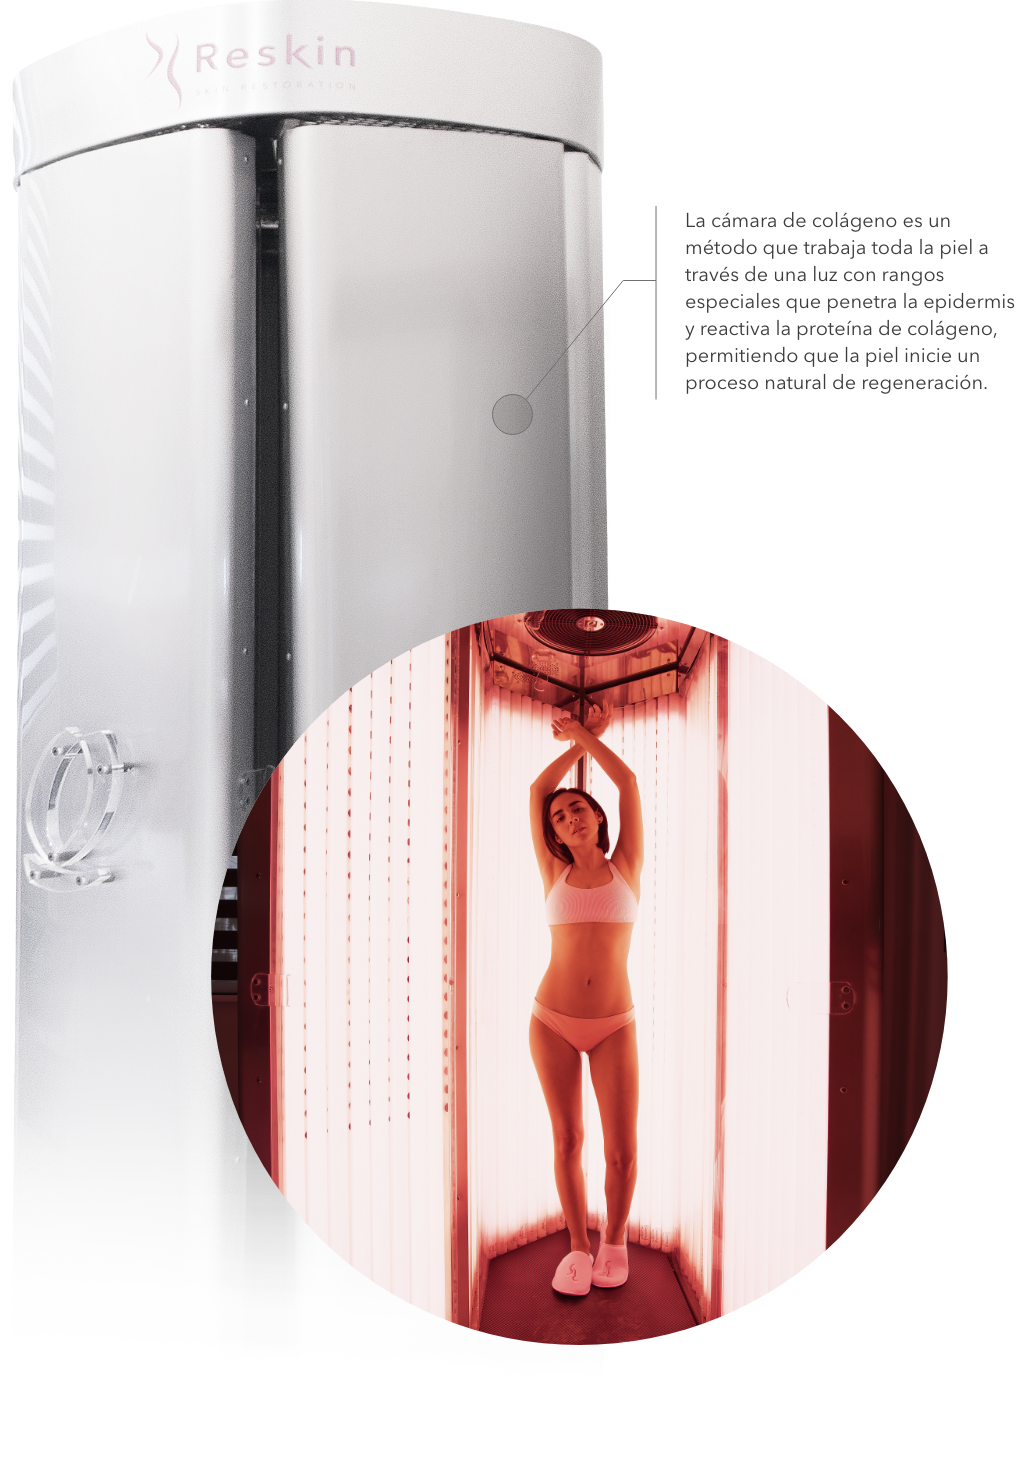
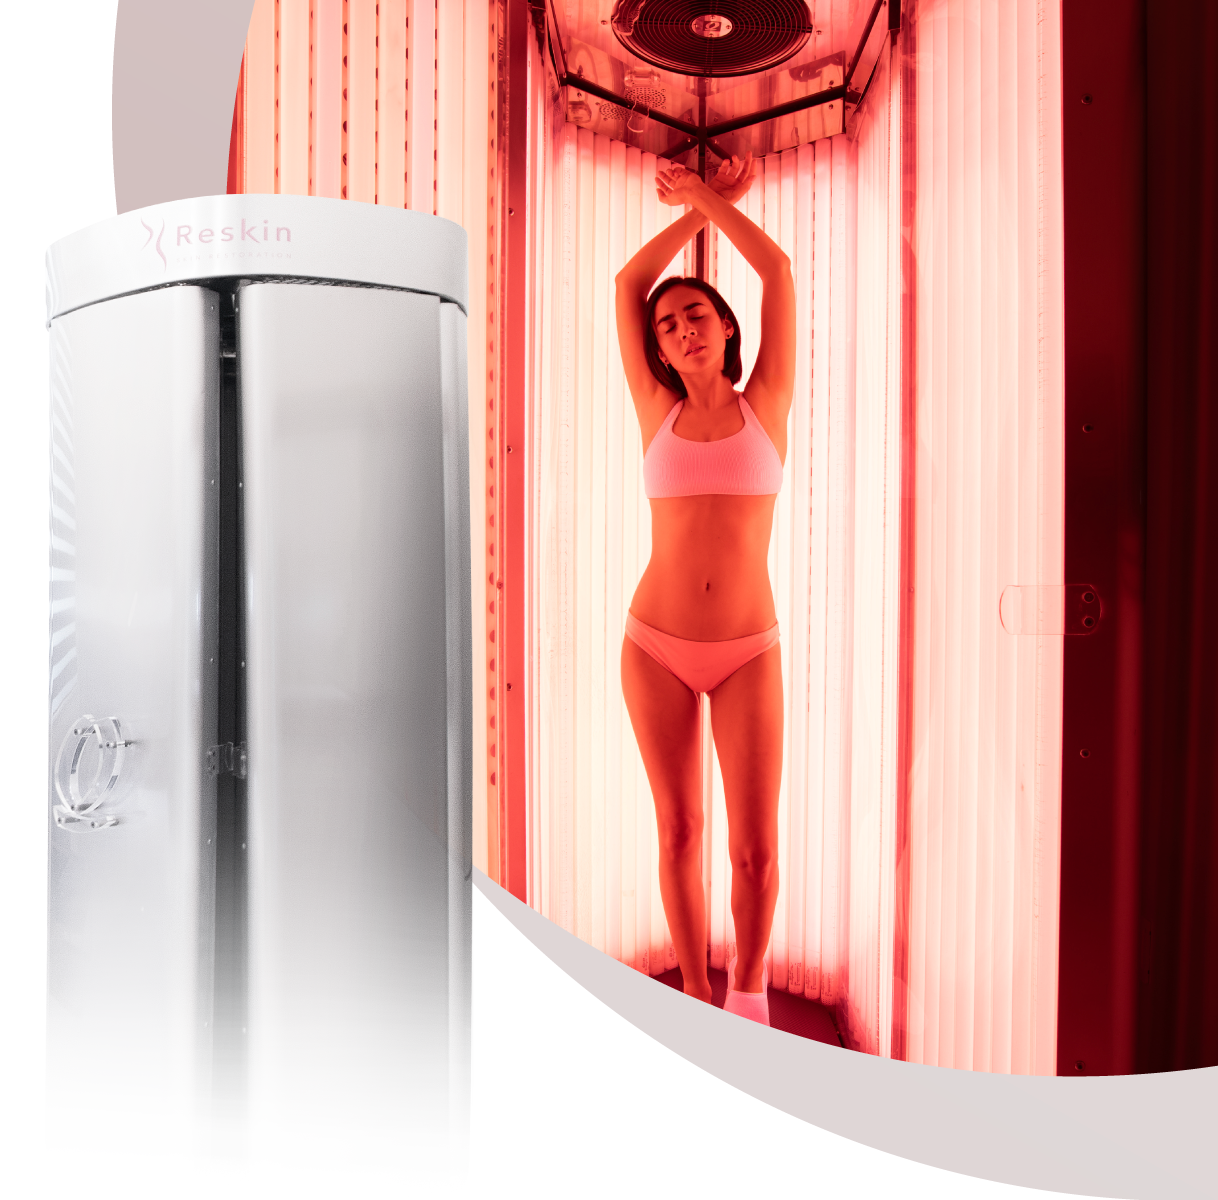
last features

diff --git a/src/components/views/views/tecnologies/index.scss b/src/components/views/views/tecnologies/index.scss
@@ -114,9 +114,9 @@
         align-items: flex-start;
         background-image: url('../../../utils//img/tecnologies/reskin/background.png');
         background-position: right;
-        background-size: 42vw;
+        background-size: 60vw;
         background-repeat: no-repeat;
-        background-position-x: 42vw;
+        background-position-x: 25vw;
         background-position-y: 2vh;
         .hederButtons{                        
             position: absolute;
@@ -273,10 +273,10 @@
         align-items: flex-start;
         background-image: url('../../../utils//img/tecnologies/skinGlow/back.png');
         background-position: right;
-        background-size: 60vw;
+        background-size: 80vw;
         background-repeat: no-repeat;
         background-position-y: 2vh;
-        background-position-x: 24vw;
+        background-position-x: 15vw;
         .hederButtons{                        
             position: absolute;
             margin-top: 90vh;
